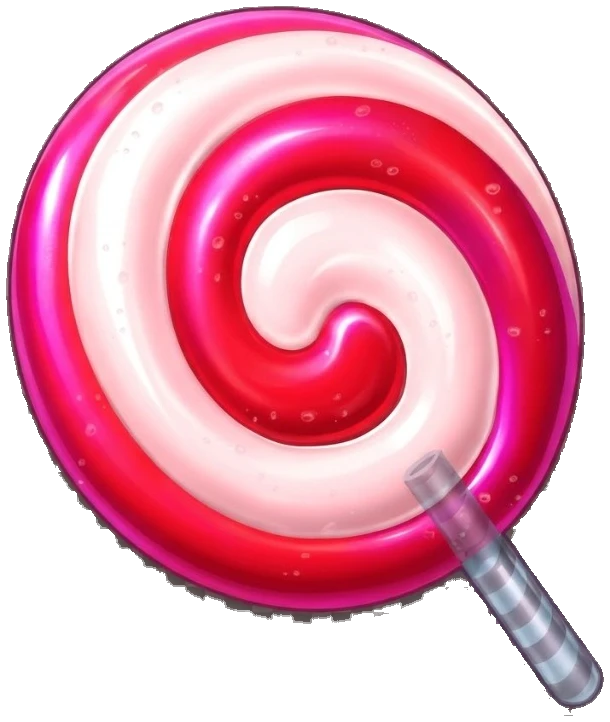
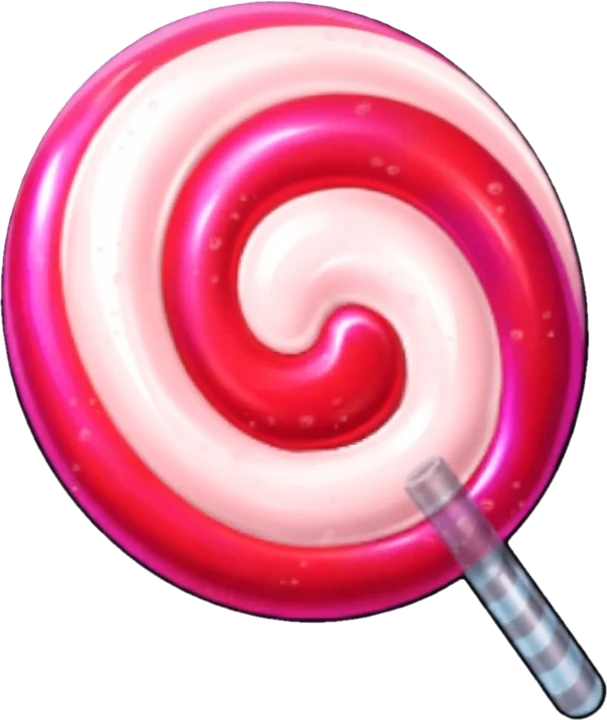
Candy Cascade: new lollipop, drawn half again as big as a cell
Claude-Session: https://claude.ai/code/session_016E2XyMbiXZorwcioWrdEwM

diff --git a/apps/web/app/globals.css b/apps/web/app/globals.css
@@ -20946,11 +20946,13 @@ button.candy-chip:disabled {
 .candy-grid {
   position: relative;
   aspect-ratio: var(--candy-shape);
-  overflow: hidden;
   border-radius: 10px;
   /* A faint line between the columns. */
   background: linear-gradient(90deg, transparent calc(100% - 1px), rgba(255, 255, 255, 0.4) 0) 0 0 / calc(100% / 6) 100%;
-  contain: layout paint;
+  /* Clipped above and below (candies waiting to drop stay hidden), but a big lollipop in an edge column may spill over the sides. */
+  overflow: visible;
+  clip-path: inset(0 -9% 0 -9%);
+  contain: layout;
 }
 
 .candy-piece {
@@ -21012,6 +21014,24 @@ button.candy-chip:disabled {
   paint-order: stroke;
   font-family: "Lilita One", "Arial Black", Arial, sans-serif;
   font-weight: 900;
+}
+
+/* The lollipop (scatter) is drawn half again as big as a cell, over the candies around it. */
+.candy-piece.is-scatter {
+  z-index: 1;
+}
+
+.candy-piece.is-scatter .candy-icon {
+  scale: 1.5;
+}
+
+/* At the top or bottom of the board it grows away from that edge, so the edge doesn't cut it off. */
+.candy-piece.is-scatter.is-top .candy-icon {
+  transform-origin: 50% 8%;
+}
+
+.candy-piece.is-scatter.is-bottom .candy-icon {
+  transform-origin: 50% 92%;
 }
 
 .candy-piece.is-win .candy-icon {

diff --git a/apps/web/components/casino-candy.tsx b/apps/web/components/casino-candy.tsx
@@ -680,7 +680,7 @@ export function CandyGame() {
                         if (node) nodes.current.set(piece.id, node);
                         else nodes.current.delete(piece.id);
                       }}
-                      className={`candy-piece${piece.win ? " is-win" : ""}`}
+                      className={`candy-piece${piece.win ? " is-win" : ""}${piece.cell === "LOLLIPOP" ? ` is-scatter${piece.row === 0 ? " is-top" : piece.row === ROWS - 1 ? " is-bottom" : ""}` : ""}`}
                       style={{ transform: place(piece.column, piece.row) }}
                     >
                       <CandyIcon cell={piece.cell} />

diff --git a/apps/web/components/candy-symbols.tsx b/apps/web/components/candy-symbols.tsx
@@ -14,7 +14,7 @@ const ART: Record<string, string> = {
   MINT: "/casino/candy/mint.webp?v=2",
   GRAPE: "/casino/candy/grape.webp",
   PEACH: "/casino/candy/peach.webp?v=2",
-  LOLLIPOP: "/casino/candy/lollipop.webp",
+  LOLLIPOP: "/casino/candy/lollipop.webp?v=2",
 };
 
 /** Multiplier bomb as an SVG <symbol>, once per page. Paying candies are images. */
